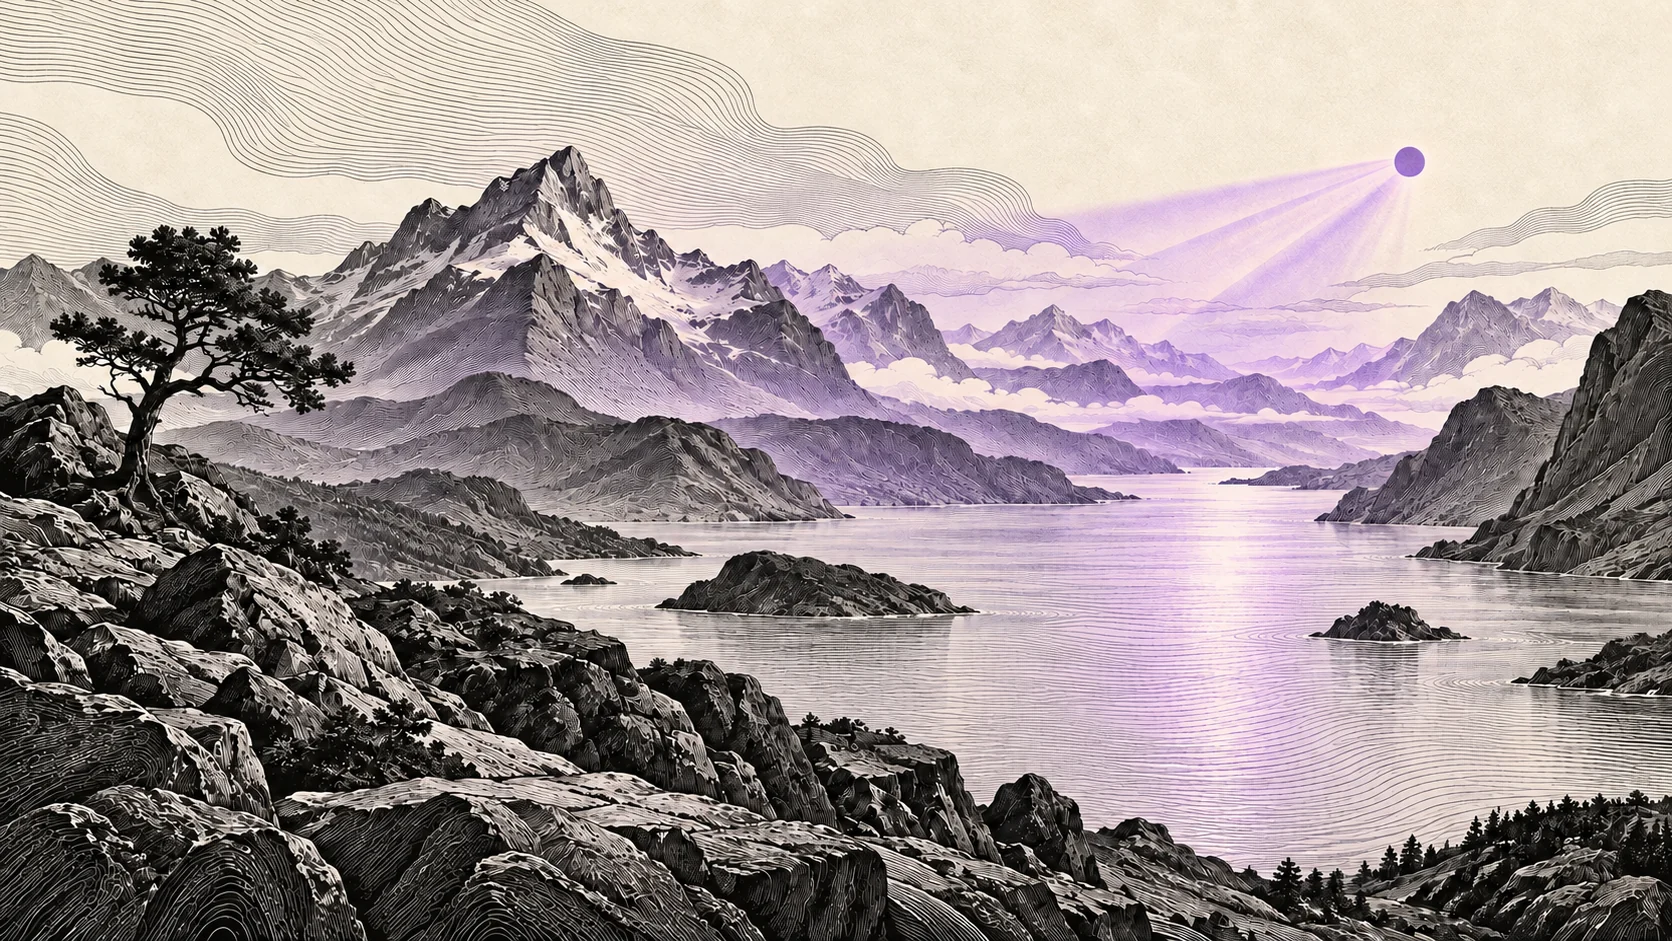
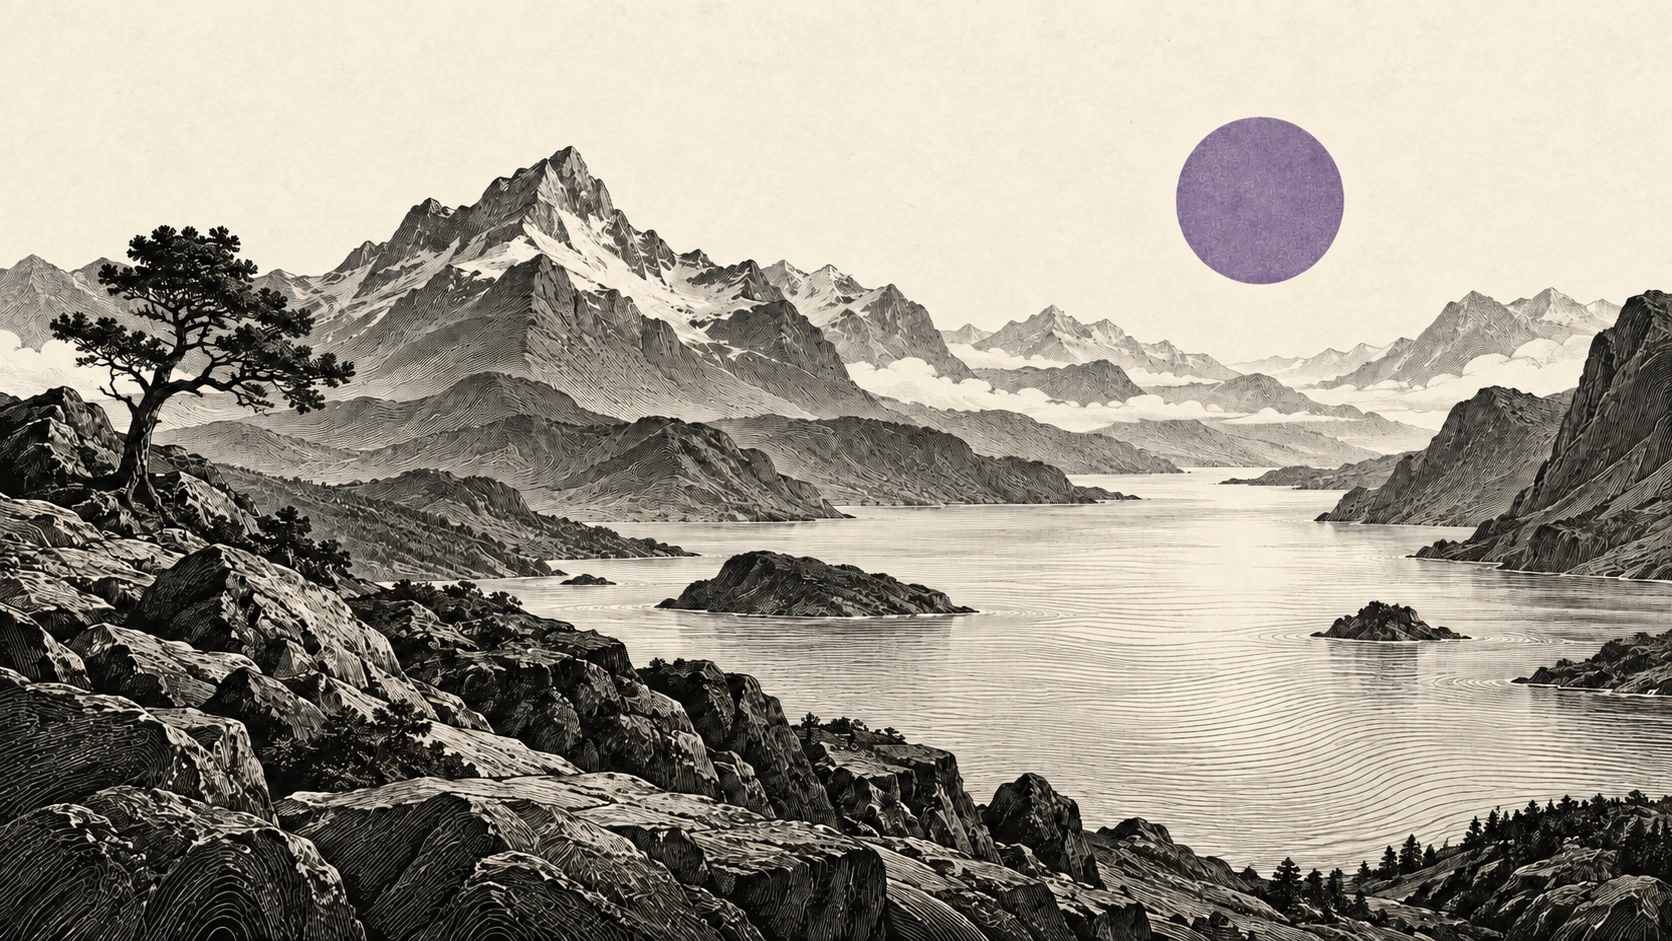
Refine landing fades harness diagram and footer artwork

diff --git a/apps/landing/src/style.css b/apps/landing/src/style.css
@@ -36,13 +36,13 @@
     --tweet-ink: rgba(236,231,247,0.82);
     --nav-control-height: 30px;
     --nav-height: 64px;
-    --nav-fade-height: 80px;
+    --nav-fade-height: 28px;
     --sans: "Geist", system-ui, -apple-system, sans-serif;
     --mono: "Geist Mono", ui-monospace, "SF Mono", Menlo, monospace;
     --serif: "Instrument Serif", Georgia, serif;
     --radius: 20px;
     --sec: clamp(88px, 8vw, 120px);
-    --footer-fade-height: clamp(120px, 22vh, 260px);
+    --footer-fade-height: 64px;
   }
   :root[data-theme="light"] {
     color-scheme: light;
@@ -100,7 +100,9 @@
     left: 0;
     right: 0;
     height: var(--footer-fade-height);
-    background: linear-gradient(to bottom, var(--bg), transparent);
+    background: var(--bg);
+    -webkit-mask-image: linear-gradient(to bottom, #000 0%, #000000d9 35%, #00000073 70%, transparent 100%);
+    mask-image: linear-gradient(to bottom, #000 0%, #000000d9 35%, #00000073 70%, transparent 100%);
     pointer-events: none;
   }
   .footer-reveal-space {
@@ -127,10 +129,10 @@
     inset: 0 0 auto;
     height: calc(var(--nav-height) + var(--nav-fade-height));
     background: color-mix(in srgb, var(--bg) 94%, transparent);
-    -webkit-backdrop-filter: blur(22px) saturate(1.15);
-    backdrop-filter: blur(22px) saturate(1.15);
-    -webkit-mask-image: linear-gradient(to bottom, #000 0, #000 var(--nav-height), #000000f4 calc(var(--nav-height) + 10px), #000000cb calc(var(--nav-height) + 28px), #00000080 calc(var(--nav-height) + 50px), #00000038 calc(var(--nav-height) + 68px), transparent 100%);
-    mask-image: linear-gradient(to bottom, #000 0, #000 var(--nav-height), #000000f4 calc(var(--nav-height) + 10px), #000000cb calc(var(--nav-height) + 28px), #00000080 calc(var(--nav-height) + 50px), #00000038 calc(var(--nav-height) + 68px), transparent 100%);
+    -webkit-backdrop-filter: blur(18px) saturate(1.15);
+    backdrop-filter: blur(18px) saturate(1.15);
+    -webkit-mask-image: linear-gradient(to bottom, #000 0, #000 var(--nav-height), #000000d9 calc(var(--nav-height) + 10px), #00000073 calc(var(--nav-height) + 20px), transparent 100%);
+    mask-image: linear-gradient(to bottom, #000 0, #000 var(--nav-height), #000000d9 calc(var(--nav-height) + 10px), #00000073 calc(var(--nav-height) + 20px), transparent 100%);
     pointer-events: none;
   }
   /* logo · section links · actions, with the links truly centered */
@@ -148,7 +150,7 @@
     .nav-inner { grid-template-columns: 1fr auto; }
     .nav-sections { display: none; }
   }
-  .logo { display: block; width: 87px; }
+  .logo { display: block; width: 72px; }
   .site-nav .links {
     justify-self: end;
     display: flex;
@@ -358,6 +360,7 @@
     object-fit: cover;
     z-index: -1;
   }
+  .plate-quote .plate-img { inset-block: -8%; height: 116%; }
   .plate-img.light, [data-theme="light"] .plate-img.dark { display: none; }
   [data-theme="light"] .plate-img.light { display: block; }
 
@@ -455,8 +458,8 @@
 
   /* rows sit flush with the wrap edges (headings align with the sections
      above and below); columns separate with gaps instead of inner padding */
-  .p-gallery { display: grid; grid-template-columns: repeat(3, 1fr); gap: 0 22px; }
-  .p-gallery figure { margin: 0; padding: 22px 0 18px; }
+  .p-gallery { display: grid; grid-template-columns: repeat(3, 1fr); gap: 22px; margin-block: 12px 28px; }
+  .p-gallery figure { margin: 0; }
   .p-gallery .screenshot-placeholder { border-color: var(--line-soft); }
   .p-gallery figcaption {
     margin-top: 14px;
@@ -466,13 +469,13 @@
   }
   .p-gallery figcaption b { font-weight: 600; color: var(--ink); }
 
-  .p-harness { display: grid; grid-template-columns: 1.08fr 1fr; }
+  .p-harness { display: grid; grid-template-columns: 1.08fr 1fr; gap: 32px; }
   .p-diagram {
     position: relative;
     display: flex;
     align-items: center;
     justify-content: center;
-    padding: 46px 40px;
+    padding: 36px 28px;
   }
   /* faint dot grid, vignetted so it dissolves before the cell edges */
   .p-diagram::before {
@@ -484,9 +487,7 @@
     mask-image: radial-gradient(72% 72% at 50% 50%, #000 30%, transparent 100%);
     pointer-events: none;
   }
-  /* hub-and-spoke: two overlapping dashed SVG lines per spoke — a faint
-     base plus a sparse purple accent — sharing one dashoffset animation,
-     staggered per spoke so the pulses drift toward the hub in sequence */
+  /* Nine production harnesses around the native Zeron mark. */
   .spoke-wrap {
     position: relative;
     width: 100%;
@@ -519,22 +520,22 @@
     left: 50%;
     top: 50%;
     transform: translate(-50%, -50%);
-    width: 74px;
-    height: 74px;
-    padding: 8px;
+    width: 54px;
+    height: 54px;
+    padding: 6px;
     background: #0c0913;
     border: 1px solid var(--line);
-    border-radius: 17px;
+    border-radius: 14px;
     box-shadow: inset 0 1px 0 rgba(255,255,255,.12), inset 0 0 0 1px rgba(255,255,255,.06);
   }
-  .spoke-hub img { display: block; width: 100%; height: 100%; border-radius: 11px; }
+  .spoke-hub img { display: block; width: 100%; height: 100%; border-radius: 8px; }
   .spoke-node {
     position: absolute;
     transform: translate(-50%, -50%);
     display: flex;
     align-items: center;
     gap: 8px;
-    padding: 7px 13px;
+    padding: 7px 10px;
     background: #0b0812;
     border: 1px solid var(--line);
     border-radius: 999px;
@@ -612,15 +613,37 @@
   }
   @media (max-width: 520px) {
     .p-diagram { padding: 30px 24px; }
-    /* both diagrams stay visible on mobile — everything scales down so the
-       nodes clear each other on a ~260px-wide canvas */
+    .spoke-wrap {
+      display: grid;
+      grid-template-columns: repeat(2, minmax(0, 1fr));
+      gap: 8px;
+      aspect-ratio: auto;
+    }
+    .spoke-wrap > svg, .spoke-wrap::before { display: none; }
+    .spoke-hub {
+      position: relative;
+      left: auto;
+      top: auto;
+      grid-column: 1 / -1;
+      justify-self: center;
+      transform: none;
+      margin-block-end: 12px;
+    }
+    .spoke-node {
+      position: static;
+      transform: none;
+      width: 100%;
+      min-width: 0;
+      justify-content: flex-start;
+      gap: 6px;
+    }
+    .spoke-node .agent-icon { flex: 0 0 auto; }
     .dev-chip { gap: 6px; padding: 4px 9px; }
     .dev-chip svg { width: 11px; height: 11px; }
     .dev-chip span { font-size: 10.5px; }
-    .spoke-node { padding: 5px 10px; }
+    .spoke-node { padding: 7px 8px; }
     .spoke-node .agent-icon { width: 14px; height: 14px; }
     .spoke-node span:last-child { font-size: 11px; }
-    .spoke-hub { width: 56px; height: 56px; padding: 6px; border-radius: 13px; }
   }
   @media (prefers-reduced-motion: reduce) {
     .spoke-line, .spoke-accent { animation: none; }
@@ -826,7 +849,7 @@
     width: 100%;
     height: 100%;
     object-fit: cover;
-    object-position: 50% 50%;
+    object-position: 50% 0%;
   }
   .footer-landscape img.light, [data-theme="light"] .footer-landscape img.dark { display: none; }
   [data-theme="light"] .footer-landscape img.light { display: block; }
@@ -839,7 +862,7 @@
   .footer-inner { position: relative; z-index: 1; margin-top: auto; }
   .footer-wordmark {
     display: block;
-    width: min(76%, 860px);
+    width: min(68%, 760px);
     margin-inline: auto;
   }
   .foot {
@@ -907,8 +930,8 @@
     .footer-intro p { font-size: 14px; }
     .footer-intro .cta-row { margin-top: 14px; }
     .footer-landscape { inset: 34% 0 0; }
-    .footer-landscape img { object-position: 60% center; }
-    .footer-wordmark { width: 100%; }
+    .footer-landscape img { object-position: 70% 0%; }
+    .footer-wordmark { width: 82%; }
     .foot { grid-template-columns: 1fr; justify-items: center; gap: 8px; margin-top: 18px; padding-top: 12px; padding-bottom: 18px; text-align: center; }
     .foot-links { justify-content: center; }
   }

diff --git a/apps/landing/index.html b/apps/landing/index.html
@@ -98,51 +98,45 @@
       <i class="pdot tl"></i><i class="pdot tr"></i><i class="pdot bl"></i><i class="pdot br"></i>
       <div class="panel-row p-harness">
         <div class="p-diagram">
-          <div class="spoke-wrap" aria-hidden="true">
+          <div class="spoke-wrap" role="img" aria-label="Zeron connects Claude Code, Codex, Cursor, Pi, Grok, Devin, Hermes, OpenCode, and Antigravity">
             <svg viewBox="0 0 100 100" preserveAspectRatio="xMidYMid meet">
-              <g>
-                <line x1="50" y1="12" x2="50" y2="39" class="spoke-line" style="animation-delay: 0s"></line>
-                <line x1="50" y1="12" x2="50" y2="39" class="spoke-accent" style="animation-delay: 0s"></line>
-              </g>
-              <g>
-                <line x1="82.91" y1="31" x2="59.53" y2="44.5" class="spoke-line" style="animation-delay: .25s"></line>
-                <line x1="82.91" y1="31" x2="59.53" y2="44.5" class="spoke-accent" style="animation-delay: .25s"></line>
-              </g>
-              <g>
-                <line x1="82.91" y1="69" x2="59.53" y2="55.5" class="spoke-line" style="animation-delay: .5s"></line>
-                <line x1="82.91" y1="69" x2="59.53" y2="55.5" class="spoke-accent" style="animation-delay: .5s"></line>
-              </g>
-              <g>
-                <line x1="50" y1="88" x2="50" y2="61" class="spoke-line" style="animation-delay: .75s"></line>
-                <line x1="50" y1="88" x2="50" y2="61" class="spoke-accent" style="animation-delay: .75s"></line>
-              </g>
-              <g>
-                <line x1="17.09" y1="69" x2="40.47" y2="55.5" class="spoke-line" style="animation-delay: 1s"></line>
-                <line x1="17.09" y1="69" x2="40.47" y2="55.5" class="spoke-accent" style="animation-delay: 1s"></line>
-              </g>
-              <g>
-                <line x1="17.09" y1="31" x2="40.47" y2="44.5" class="spoke-line" style="animation-delay: 1.25s"></line>
-                <line x1="17.09" y1="31" x2="40.47" y2="44.5" class="spoke-accent" style="animation-delay: 1.25s"></line>
-              </g>
+              <g><line x1="50" y1="50" x2="50" y2="10" class="spoke-line"></line><line x1="50" y1="50" x2="50" y2="10" class="spoke-accent" style="animation-delay: 0s"></line></g>
+              <g><line x1="50" y1="50" x2="78" y2="22" class="spoke-line"></line><line x1="50" y1="50" x2="78" y2="22" class="spoke-accent" style="animation-delay: .2s"></line></g>
+              <g><line x1="50" y1="50" x2="88" y2="44" class="spoke-line"></line><line x1="50" y1="50" x2="88" y2="44" class="spoke-accent" style="animation-delay: .4s"></line></g>
+              <g><line x1="50" y1="50" x2="82" y2="71" class="spoke-line"></line><line x1="50" y1="50" x2="82" y2="71" class="spoke-accent" style="animation-delay: .6s"></line></g>
+              <g><line x1="50" y1="50" x2="63" y2="87" class="spoke-line"></line><line x1="50" y1="50" x2="63" y2="87" class="spoke-accent" style="animation-delay: .8s"></line></g>
+              <g><line x1="50" y1="50" x2="37" y2="87" class="spoke-line"></line><line x1="50" y1="50" x2="37" y2="87" class="spoke-accent" style="animation-delay: 1s"></line></g>
+              <g><line x1="50" y1="50" x2="18" y2="71" class="spoke-line"></line><line x1="50" y1="50" x2="18" y2="71" class="spoke-accent" style="animation-delay: 1.2s"></line></g>
+              <g><line x1="50" y1="50" x2="12" y2="44" class="spoke-line"></line><line x1="50" y1="50" x2="12" y2="44" class="spoke-accent" style="animation-delay: 1.4s"></line></g>
+              <g><line x1="50" y1="50" x2="22" y2="22" class="spoke-line"></line><line x1="50" y1="50" x2="22" y2="22" class="spoke-accent" style="animation-delay: 1.6s"></line></g>
             </svg>
-            <div class="spoke-hub"><img src="/assets/brand/zeron-favicon.svg" width="128" height="128" alt="" /></div>
-            <div class="spoke-node" style="left: 50%; top: 12%">
+            <div class="spoke-hub"><img src="/assets/brand/zeron-favicon.svg" width="54" height="54" alt="" /></div>
+            <div class="spoke-node" style="left: 50%; top: 10%">
               <span class="agent-icon" style="--icon: url('/assets/icons/claude-mark.svg')"></span><span>Claude Code</span>
             </div>
-            <div class="spoke-node" style="left: 82.91%; top: 31%">
+            <div class="spoke-node" style="left: 78%; top: 22%">
               <span class="agent-icon" style="--icon: url('/assets/icons/openai-mark.svg')"></span><span>Codex</span>
             </div>
-            <div class="spoke-node" style="left: 82.91%; top: 69%">
+            <div class="spoke-node" style="left: 88%; top: 44%">
               <span class="agent-icon" style="--icon: url('/assets/icons/cursor-mark.svg')"></span><span>Cursor</span>
             </div>
-            <div class="spoke-node" style="left: 50%; top: 88%">
+            <div class="spoke-node" style="left: 82%; top: 71%">
               <span class="agent-icon" style="--icon: url('/assets/icons/pi-mark.svg')"></span><span>Pi</span>
             </div>
-            <div class="spoke-node" style="left: 17.09%; top: 69%">
+            <div class="spoke-node" style="left: 63%; top: 87%">
+              <span class="agent-icon" style="--icon: url('/assets/icons/grok-mark.svg')"></span><span>Grok</span>
+            </div>
+            <div class="spoke-node" style="left: 37%; top: 87%">
+              <span class="agent-icon" style="--icon: url('/assets/icons/devin-mark.svg')"></span><span>Devin</span>
+            </div>
+            <div class="spoke-node" style="left: 18%; top: 71%">
               <span class="agent-icon" style="--icon: url('/assets/icons/hermes-mark.svg')"></span><span>Hermes</span>
             </div>
-            <div class="spoke-node" style="left: 17.09%; top: 31%">
-              <span class="agent-icon" style="--icon: url('/assets/icons/grok-mark.svg')"></span><span>Grok</span>
+            <div class="spoke-node" style="left: 12%; top: 44%">
+              <span class="agent-icon" style="--icon: url('/assets/icons/opencode-mark.svg')"></span><span>OpenCode</span>
+            </div>
+            <div class="spoke-node" style="left: 22%; top: 22%">
+              <span class="agent-icon" style="--icon: url('/assets/icons/antigravity-mark.svg')"></span><span>Antigravity</span>
             </div>
           </div>
         </div>

diff --git a/apps/landing/src/footer-motion.js b/apps/landing/src/footer-motion.js
@@ -2,10 +2,11 @@ import gsap from 'gsap';
 import { ScrollTrigger } from 'gsap/ScrollTrigger';
 
 // The page scrolls away to uncover a stationary, viewport-sized footer.
-// GSAP adds a small fade and parallax while the last page-height clears it.
+// A short, masked page edge uncovers the fixed footer; GSAP adds gentle depth.
 const footer = document.querySelector('.footer-stage');
 const reveal = document.querySelector('.footer-reveal-space');
 const nav = document.querySelector('.site-nav');
+const quote = document.querySelector('.plate-quote');
 
 if (footer && reveal) {
   gsap.registerPlugin(ScrollTrigger);
@@ -26,11 +27,24 @@ if (footer && reveal) {
       },
     });
     timeline
-      .fromTo(footer, { opacity: 0.6 }, { opacity: 1, duration: 0.5 }, 0)
-      .fromTo(landscape, { scale: 1.07, yPercent: 5 }, { scale: 1, yPercent: 0, duration: 0.9 }, 0)
-      .fromTo(intro, { y: 30, opacity: 0.4 }, { y: 0, opacity: 1, duration: 0.55 }, 0.12)
-      .fromTo(wordmark, { yPercent: 16, opacity: 0.2 }, { yPercent: 0, opacity: 1, duration: 0.55 }, 0.25)
-      .fromTo(foot, { y: 12, opacity: 0.25 }, { y: 0, opacity: 1, duration: 0.4 }, 0.4);
+      .fromTo(landscape, { scale: 1.045, yPercent: 3 }, { scale: 1, yPercent: 0, duration: 1 }, 0)
+      .fromTo(intro, { y: 16 }, { y: 0, duration: 0.65 }, 0.1)
+      .fromTo(wordmark, { yPercent: 7 }, { yPercent: 0, duration: 0.65 }, 0.2)
+      .fromTo(foot, { y: 8 }, { y: 0, duration: 0.5 }, 0.35);
+
+    if (quote) {
+      gsap.fromTo(quote.querySelectorAll('.plate-img'), { yPercent: -5 }, {
+        yPercent: 5,
+        ease: 'none',
+        scrollTrigger: {
+          trigger: quote,
+          start: 'top bottom',
+          end: 'bottom top',
+          scrub: 0.7,
+          invalidateOnRefresh: true,
+        },
+      });
+    }
 
     gsap.fromTo(nav, { autoAlpha: 1 }, {
       autoAlpha: 0,
